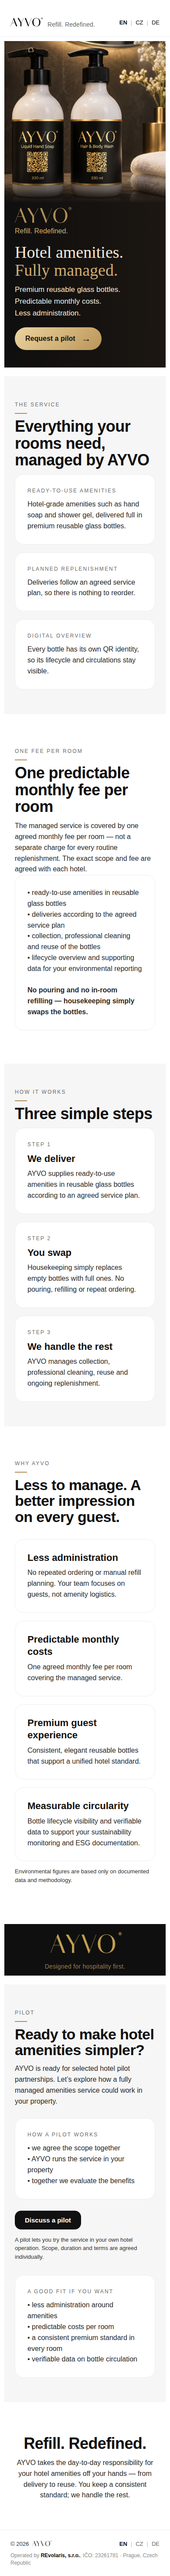
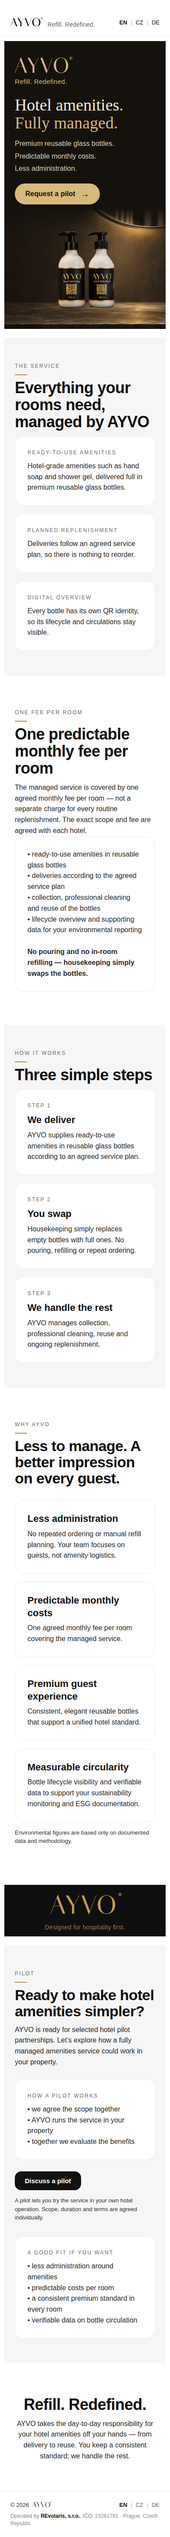
fix(marketing): hero built from separate parts (background, bottles, HTML copy)
The live hero read as one inserted image (a rectangle on the right, a sunken logo). Rebuilt
from elements, calmer, on the same bathroom black-and-gold motif:

- Background: the separate clean bathroom background (no bottles, text or logo), edge to edge
  of the hero as a CSS layer, preloaded with high priority (WebP 1536x1024, 49 kB).
- Bottles: one transparent layer of the two real bottles cut from the exact pixels of the
  approved visual (labels and both QR codes untouched, edges softened by 0.7 px), WebP with
  alpha 474x612 (41 kB); standing on the counter with soft computed contact shadows. On
  desktop the hero keeps the background's 3:2 proportion (or is taller), so the counter is
  always at 78 % and the bases sit on it.
- Copy (HTML, unchanged content): the official wordmark in a lighter, readable gold (same
  outline), the slogan, the serif h1 in cream then gold, three lines, one calm gold CTA. No
  heavy gradient, frame or extra UI item.
- Phones: the offer and the CTA first, then a low 4:3 scene with the bottles on the counter;
  CTA and bottles in the first screen at 390 x 844; no horizontal scroll at 320.
- Tests: the products layer and the preloaded background; e2e: the scene reaches both edges,
  the bases at 78-86 % of the scene, the bottles right of the h1 on desktop, the CTA first and
  in the first screen on phones.

Changed region(s): [[0.0308, 0.0, 0.9846, 0.9972]]

diff --git a/apps/marketing/site/assets/site.css b/apps/marketing/site/assets/site.css
@@ -382,54 +382,83 @@ main section[id] {
   background: #fff;
 }
 
-/* Black-and-gold hero (the approved bathroom visual): the copy in HTML on the dark left part,
-   the exact product area of the visual on the right, fading into the dark on its left edge.
-   On phones the image is its own square block above the copy. */
+/* Black-and-gold hero, built from separate parts: one bathroom background from edge to edge (an
+   atmosphere, CSS), the two real bottles as one transparent layer standing on the counter, and the
+   copy in HTML. On desktop the hero keeps the background's 3:2 proportion (or is taller), so the
+   counter is always at 78 % of its height and the bottles stand on it. */
 .ayvo-hero.ayvo-hero-dark {
-  --hero-cream: #f3ebdc;
-  --hero-gold: #cfad72;
+  --hero-cream: #f2eadb;
+  --hero-gold: #d8b97c;
   position: relative;
   display: flex;
   align-items: center;
-  min-height: clamp(560px, 52vw, 720px);
+  aspect-ratio: 3 / 2;
+  min-height: 600px;
   padding: 0;
   overflow: hidden;
-  background: linear-gradient(90deg, #0f0f0f 0%, #16120f 55%, #1c1713 100%);
+  background: #15110d;
 }
-.ayvo-hero-dark .ayvo-hero-media {
+.ayvo-hero-stage {
   position: absolute;
-  top: 0;
-  right: 0;
-  bottom: 0;
-  width: 58%;
-  -webkit-mask-image: linear-gradient(90deg, transparent 0%, #000 24%);
-  mask-image: linear-gradient(90deg, transparent 0%, #000 24%);
+  inset: 0;
 }
-.ayvo-hero-dark .ayvo-hero-visual {
+.ayvo-hero-stage::before {
+  content: '';
+  position: absolute;
+  inset: 0;
+  background: url('/assets/img/ayvo-hero-background.webp') 50% 100% / cover no-repeat;
+}
+/* The bottles: their bases on the counter (just in front of its back edge at 78 %). */
+.ayvo-hero-products {
+  position: absolute;
+  right: 8%;
+  bottom: 17.5%;
+  height: 66%;
+  aspect-ratio: 474 / 612;
+}
+.ayvo-hero-products .ayvo-hero-visual {
+  position: relative;
+  z-index: 1;
   display: block;
   width: 100%;
   height: 100%;
-  object-fit: cover;
-  object-position: 50% 40%;
+}
+/* Soft contact shadows under the two bases (computed, not part of the product image). */
+.ayvo-hero-products::before,
+.ayvo-hero-products::after {
+  content: '';
+  position: absolute;
+  bottom: -1.6%;
+  width: 47%;
+  height: 4.5%;
+  border-radius: 50%;
+  background: radial-gradient(closest-side, rgba(0, 0, 0, 0.55), rgba(0, 0, 0, 0));
+}
+.ayvo-hero-products::before {
+  left: 4.5%;
+}
+.ayvo-hero-products::after {
+  left: 54.5%;
 }
 .ayvo-hero-dark .ayvo-hero-content {
   position: relative;
   z-index: 1;
   width: 100%;
-  padding-top: 64px;
-  padding-bottom: 64px;
+  padding-top: 56px;
+  padding-bottom: 56px;
 }
 .ayvo-hero-copy {
-  max-width: 500px;
+  max-width: 470px;
 }
 .ayvo-hero-wordmark {
   display: block;
-  width: 230px;
+  width: 196px;
   height: auto;
 }
 .ayvo-hero-slogan {
-  margin: 12px 0 34px 0;
-  font-size: 23px;
+  margin: 14px 0 40px 0;
+  font-size: 19px;
+  letter-spacing: 0.02em;
   color: var(--hero-gold);
 }
 /* The h1 in two parts (cream, then gold), each on its own line; a phone wraps inside a part. */
@@ -437,8 +466,8 @@ main section[id] {
   margin: 0;
   font-family: var(--serif);
   font-weight: 400;
-  font-size: 62px;
-  line-height: 1.06;
+  font-size: 56px;
+  line-height: 1.08;
   letter-spacing: 0;
   color: var(--hero-cream);
 }
@@ -450,34 +479,34 @@ main section[id] {
 }
 .ayvo-hero-points {
   list-style: none;
-  margin: 26px 0 0 0;
+  margin: 28px 0 0 0;
   padding: 0;
 }
 .ayvo-hero-points li {
-  margin: 0 0 4px 0;
-  font-size: 23px;
-  line-height: 1.35;
-  color: var(--hero-cream);
+  margin: 0 0 6px 0;
+  font-size: 19px;
+  line-height: 1.4;
+  color: rgba(242, 234, 219, 0.88);
 }
 .ayvo-hero-dark .ayvo-cta {
-  margin-top: 34px;
+  margin-top: 36px;
 }
-/* The pilot CTA: a rounded gold button with a decorative arrow (hidden from screen readers). */
+/* The pilot CTA: a calm rounded gold button with a decorative arrow (hidden from screen readers). */
 .ayvo-hero-dark .ayvo-btn.primary {
-  gap: 14px;
-  padding: 18px 30px;
+  gap: 12px;
+  padding: 16px 28px;
   border: 0;
   border-radius: 999px;
-  background: linear-gradient(135deg, #ead3a0 0%, #d2b277 55%, #b99559 100%);
+  background: var(--hero-gold);
   color: #17120c;
-  font-size: 19px;
+  font-size: 17px;
   font-weight: 600;
 }
 .ayvo-hero-dark .ayvo-btn.primary:hover {
-  background: linear-gradient(135deg, #f0dcad 0%, #d9ba80 55%, #c19d61 100%);
+  background: #e2c68e;
 }
 .ayvo-arrow {
-  font-size: 22px;
+  font-size: 20px;
   line-height: 1;
 }
 
@@ -586,43 +615,56 @@ main section[id] {
   .ayvo-hero {
     padding: 64px 0 56px 0;
   }
-  /* Phones: the image is its own square block above the copy, both bottles whole. */
+  /* Phones: the offer and the CTA first, then a low 4:3 scene with the bottles on the counter
+     (the background is scaled by height there, so the counter is again at 78 %). */
   .ayvo-hero.ayvo-hero-dark {
-    display: block;
+    display: flex;
+    flex-direction: column;
+    align-items: stretch;
+    aspect-ratio: auto;
     min-height: 0;
   }
-  .ayvo-hero-dark .ayvo-hero-media {
-    position: relative;
-    width: 100%;
-    aspect-ratio: 1 / 1;
-    -webkit-mask-image: linear-gradient(180deg, #000 80%, transparent 100%);
-    mask-image: linear-gradient(180deg, #000 80%, transparent 100%);
-  }
   .ayvo-hero-dark .ayvo-hero-content {
-    padding-top: 10px;
-    padding-bottom: 40px;
+    order: 1;
+    padding-top: 36px;
+    padding-bottom: 8px;
+  }
+  .ayvo-hero-stage {
+    position: relative;
+    order: 2;
+    aspect-ratio: 4 / 3;
+  }
+  .ayvo-hero-stage::before {
+    background-position: 72% 100%;
+    -webkit-mask-image: linear-gradient(180deg, transparent 0%, #000 22%);
+    mask-image: linear-gradient(180deg, transparent 0%, #000 22%);
+  }
+  .ayvo-hero-products {
+    right: 50%;
+    height: 64%;
+    transform: translateX(50%);
   }
   .ayvo-hero-wordmark {
-    width: 130px;
+    width: 132px;
   }
   .ayvo-hero-slogan {
-    margin: 6px 0 16px 0;
-    font-size: 16px;
+    margin: 8px 0 22px 0;
+    font-size: 15px;
   }
   .ayvo-hero-dark .ayvo-h1 {
     font-size: 38px;
   }
   .ayvo-hero-points {
-    margin-top: 14px;
+    margin-top: 16px;
   }
   .ayvo-hero-points li {
-    font-size: 17px;
+    font-size: 16px;
   }
   .ayvo-hero-dark .ayvo-cta {
-    margin-top: 20px;
+    margin-top: 22px;
   }
   .ayvo-hero-dark .ayvo-btn.primary {
-    padding: 15px 24px;
+    padding: 14px 24px;
     font-size: 16px;
   }
   .ayvo-cta {

diff --git a/apps/marketing/site/de/index.html b/apps/marketing/site/de/index.html
@@ -27,6 +27,13 @@
     <link rel="icon" href="/assets/icons/ayvo-192.png" sizes="192x192" type="image/png" />
     <link rel="apple-touch-icon" href="/assets/icons/ayvo-180.png" />
     <link rel="stylesheet" href="/assets/site.css" />
+    <link
+      rel="preload"
+      as="image"
+      href="/assets/img/ayvo-hero-background.webp"
+      type="image/webp"
+      fetchpriority="high"
+    />
     <script src="/assets/site.js" defer></script>
   </head>
   <body>
@@ -56,16 +63,18 @@
     </header>
     <main id="content">
       <section id="top" class="ayvo-section ayvo-hero ayvo-hero-dark">
-        <div class="ayvo-hero-media">
-          <img
-            class="ayvo-hero-visual"
-            src="/assets/img/ayvo-hero.webp"
-            width="648"
-            height="792"
-            fetchpriority="high"
-            decoding="async"
-            alt="Illustrative Abbildung: zwei weiße AYVO Flaschen, Liquid Hand Soap und Hair &amp; Body Wash, im Hotelbad"
-          />
+        <div class="ayvo-hero-stage">
+          <div class="ayvo-hero-products">
+            <img
+              class="ayvo-hero-visual"
+              src="/assets/img/ayvo-hero-products.webp"
+              width="474"
+              height="612"
+              fetchpriority="high"
+              decoding="async"
+              alt="Illustrative Abbildung der AYVO Produkte: zwei weiße Flaschen, Liquid Hand Soap und Hair &amp; Body Wash"
+            />
+          </div>
         </div>
         <div class="ayvo-wrap ayvo-hero-content">
           <div class="ayvo-hero-copy">

diff --git a/apps/marketing/site/index.html b/apps/marketing/site/index.html
@@ -27,6 +27,13 @@
     <link rel="icon" href="/assets/icons/ayvo-192.png" sizes="192x192" type="image/png" />
     <link rel="apple-touch-icon" href="/assets/icons/ayvo-180.png" />
     <link rel="stylesheet" href="/assets/site.css" />
+    <link
+      rel="preload"
+      as="image"
+      href="/assets/img/ayvo-hero-background.webp"
+      type="image/webp"
+      fetchpriority="high"
+    />
     <script src="/assets/site.js" defer></script>
   </head>
   <body>
@@ -54,16 +61,18 @@
     </header>
     <main id="content">
       <section id="top" class="ayvo-section ayvo-hero ayvo-hero-dark">
-        <div class="ayvo-hero-media">
-          <img
-            class="ayvo-hero-visual"
-            src="/assets/img/ayvo-hero.webp"
-            width="648"
-            height="792"
-            fetchpriority="high"
-            decoding="async"
-            alt="Illustrative image: two white AYVO bottles, Liquid Hand Soap and Hair &amp; Body Wash, on a hotel bathroom vanity"
-          />
+        <div class="ayvo-hero-stage">
+          <div class="ayvo-hero-products">
+            <img
+              class="ayvo-hero-visual"
+              src="/assets/img/ayvo-hero-products.webp"
+              width="474"
+              height="612"
+              fetchpriority="high"
+              decoding="async"
+              alt="Illustrative image of AYVO products: two white bottles, Liquid Hand Soap and Hair &amp; Body Wash"
+            />
+          </div>
         </div>
         <div class="ayvo-wrap ayvo-hero-content">
           <div class="ayvo-hero-copy">

diff --git a/apps/marketing/site/cz/index.html b/apps/marketing/site/cz/index.html
@@ -27,6 +27,13 @@
     <link rel="icon" href="/assets/icons/ayvo-192.png" sizes="192x192" type="image/png" />
     <link rel="apple-touch-icon" href="/assets/icons/ayvo-180.png" />
     <link rel="stylesheet" href="/assets/site.css" />
+    <link
+      rel="preload"
+      as="image"
+      href="/assets/img/ayvo-hero-background.webp"
+      type="image/webp"
+      fetchpriority="high"
+    />
     <script src="/assets/site.js" defer></script>
   </head>
   <body>
@@ -55,16 +62,18 @@
     </header>
     <main id="content">
       <section id="top" class="ayvo-section ayvo-hero ayvo-hero-dark">
-        <div class="ayvo-hero-media">
-          <img
-            class="ayvo-hero-visual"
-            src="/assets/img/ayvo-hero.webp"
-            width="648"
-            height="792"
-            fetchpriority="high"
-            decoding="async"
-            alt="Ilustrační snímek: dvě bílé lahve AYVO, Liquid Hand Soap a Hair &amp; Body Wash, v hotelové koupelně"
-          />
+        <div class="ayvo-hero-stage">
+          <div class="ayvo-hero-products">
+            <img
+              class="ayvo-hero-visual"
+              src="/assets/img/ayvo-hero-products.webp"
+              width="474"
+              height="612"
+              fetchpriority="high"
+              decoding="async"
+              alt="Ilustrační snímek produktů AYVO: dvě bílé lahve, Liquid Hand Soap a Hair &amp; Body Wash"
+            />
+          </div>
         </div>
         <div class="ayvo-wrap ayvo-hero-content">
           <div class="ayvo-hero-copy">
